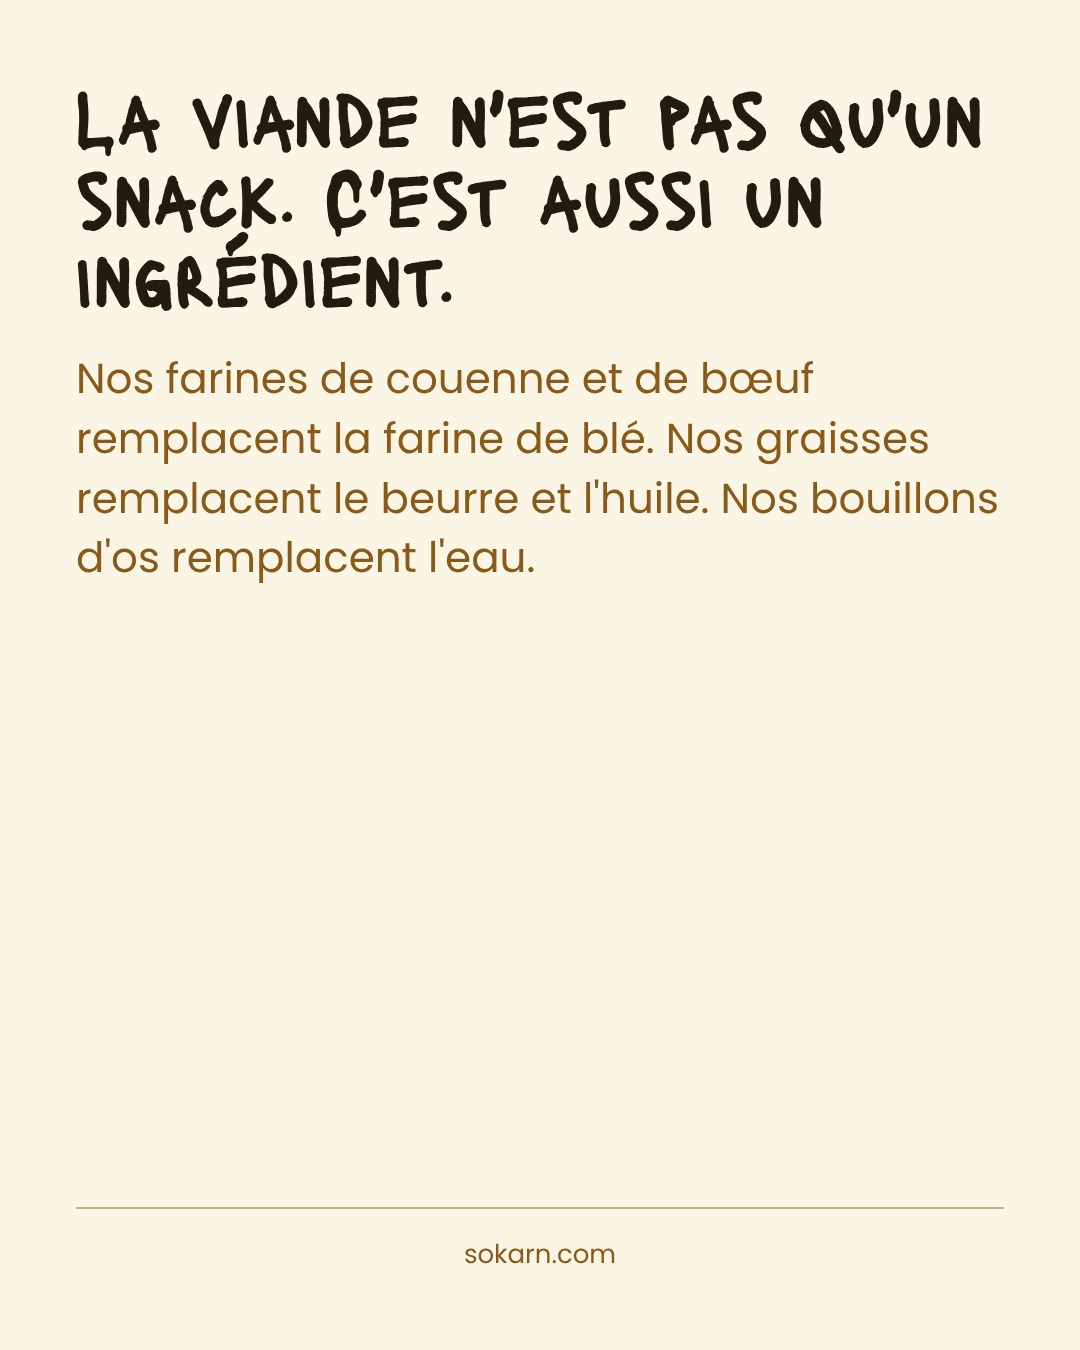
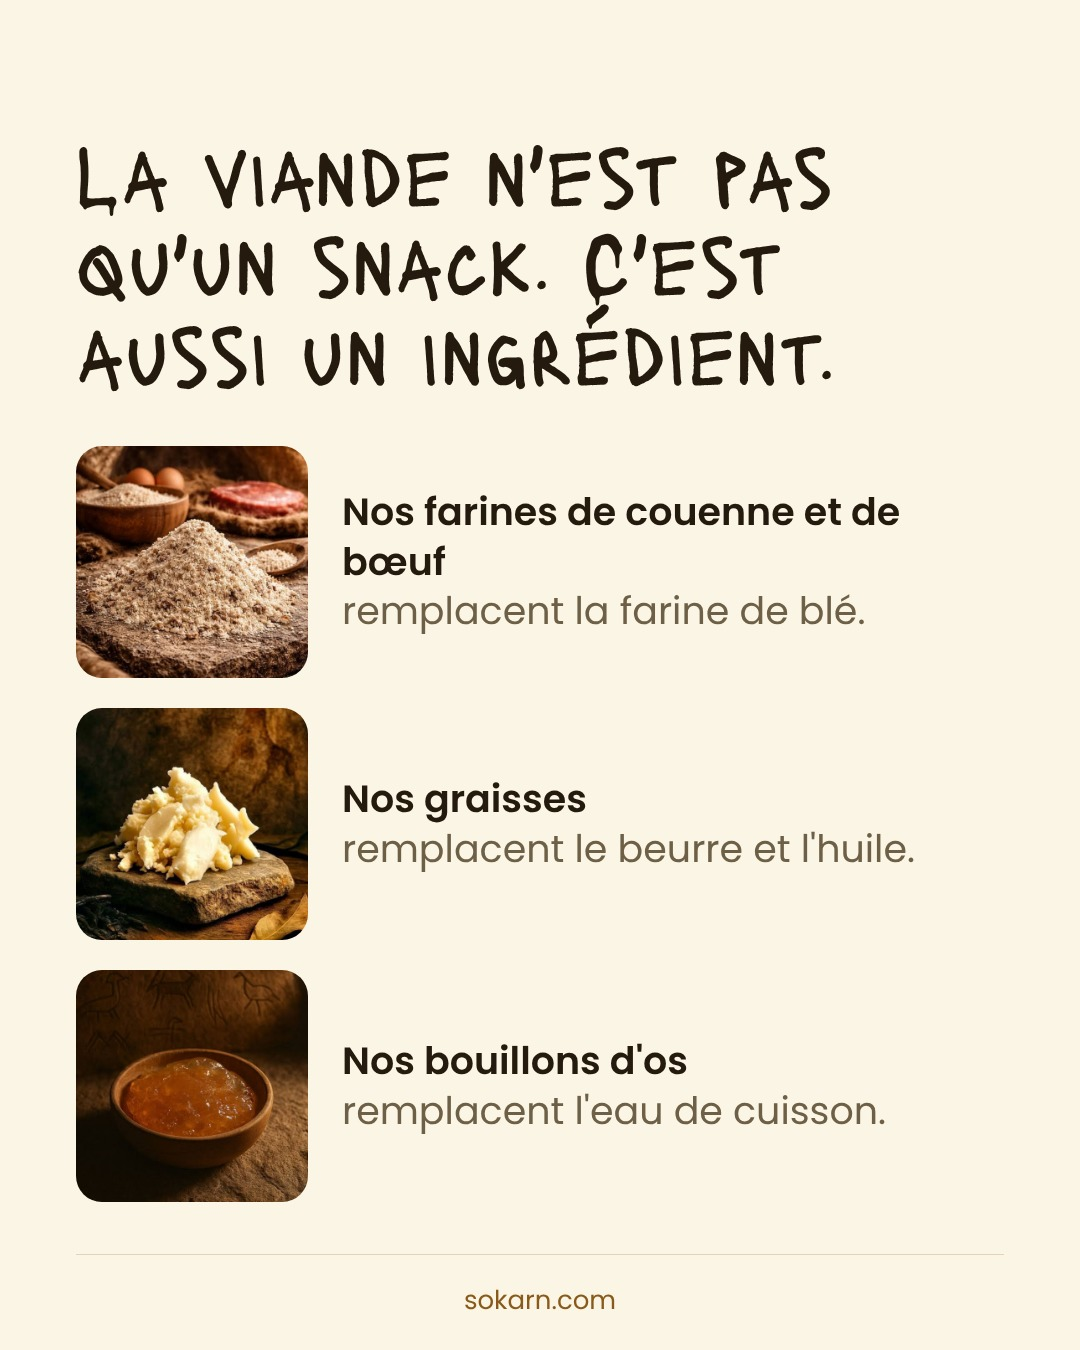
Sokarn : visuels et fiches des 17, 21 et 28 novembre
Claude-Session: https://claude.ai/code/session_01R2istR9Vw9AYu3H5iLhSBK

Changed region(s): [[0.0611, 0.0622, 0.9167, 0.9022], [0.4278, 0.9022, 0.5806, 0.9644]]

diff --git a/espace-client/sokarn-k7m2x9/index.html b/espace-client/sokarn-k7m2x9/index.html
@@ -478,7 +478,7 @@ const MEDIAS = {
   n7: ["nov-15-e1.jpg", "nov-15-e2.jpg", "nov-15-e3.jpg"],
   n8: ["nov-17-s1.jpg", "nov-17-s2.jpg", "nov-17-s3.jpg", "nov-17-s4.jpg", "nov-17-s5.jpg", "nov-17-s6.jpg"],
   n9: [],
-  n10: ["nov-21-avis.jpg"],
+  n10: ["nov-21-s1.jpg", "nov-21-s2.jpg", "nov-21-s3.jpg", "nov-21-s4.jpg", "nov-21-s5.jpg"],
   n11: ["nov-22-e1.jpg", "nov-22-e2.jpg", "nov-22-e3.jpg"],
   n12: ["nov-24-s1.jpg", "nov-24-s2.jpg"],
   n13: ["nov-25-e1.jpg", "nov-25-e2.jpg", "nov-25-e3.jpg"],
@@ -650,8 +650,8 @@ const POSTS_NOV = [
   "format": "Carrousel de 6 images",
   "pilier": "Le savoir-faire",
   "titre": "Trois produits qui posent question",
-  "demande": "Je fais les trois photos moi-même, fond sombre, lumière latérale dure, cadrage serré. Il me faut les produits avant le 6 novembre. Les Pieds Noirs sont remplacés par la Panse bête : ils sont en rupture et ne reviennent pas avant la campagne.",
-  "visuel": "J'ai monté la slide 1 sur fond nuit et non sur fond crème, pour l'alternance des couleurs dans le feed. Les slides 3, 4 et 5 attendent les photos, la zone est réservée.",
+  "demande": "Rien à fournir, les trois photos sont intégrées. Les Pieds Noirs sont remplacés par la Panse bête : ils sont en rupture et ne reviennent pas avant la campagne.",
+  "visuel": "J'ai monté la slide 1 sur fond nuit et non sur fond crème, pour l'alternance des couleurs dans le feed. Les slides 3, 4 et 5 présentent la Panse bête, le cœur de bœuf et le foie de bœuf, chacun avec sa photo.",
   "texte": "La panse, le cœur, le foie. Trois morceaux qui ont presque disparu des étals, parce qu'ils demandent du temps et qu'ils intriguent.\n\nNous, on les sèche. Pas par provocation : parce qu'une bête ne se résume pas à ses beaux morceaux, et qu'on ne voit pas au nom de quoi on jetterait le reste.\n\nOn sait qu'ils posent question. Alors on vous propose un marché : dites-nous en commentaire lequel des trois vous intrigue le plus, et on vous dit comment le manger la première fois.\n\nLes 3 sont sur sokarn.com",
   "tags": "#abats #panse #porcnoirdebigorre #jerky #viandesechee"
  },
@@ -672,11 +672,11 @@ const POSTS_NOV = [
   "id": "n10",
   "date": "Samedi 21 novembre, 18h30",
   "resa": "Instagram, Facebook",
-  "format": "Publication ou carrousel de 3",
+  "format": "Carrousel de 5 images",
   "pilier": "La communauté et la conversion",
   "titre": "Ce que vous en dites",
-  "demande": "Plan B si les avis ne sont pas assez nombreux au 21 : une publication simple sur la Panse bête seule, en rebond du carrousel du mardi. J'arbitre le mercredi 18 novembre.",
-  "visuel": "Carte citation au gabarit Sokarn, l'avis en Lacquer au centre avec les guillemets, le prénom et le nom du produit en dessous. Les avis produits sont repris mot pour mot, sans les corriger.",
+  "demande": "Rien à fournir.",
+  "visuel": "Ce sont finalement les avis Google qui sont partagés. Couverture avec la note de 4,9 sur 5 et les 16 avis, puis 4 avis, un par slide, signés du prénom et de l'initiale. J'ai écarté les avis qui parlent de santé et corrigé les coquilles.",
   "texte": "Les avis produits sont ouverts sur le site depuis quelques semaines, et on commence à vous lire.\n\nQuand on vend en ligne un produit que personne ne peut goûter avant d'acheter, ce que vous écrivez vaut tous les arguments et toutes les publicités :)\n\nMerci à celles et ceux qui ont pris le temps de laisser leur avis.",
   "tags": "#sokarn #avisclients #viandesechee #hautespyrenees #produitlocal"
  },
@@ -750,9 +750,9 @@ const POSTS_NOV = [
   "format": "Carrousel de 6 images",
   "pilier": "Le produit et ses usages",
   "titre": "On ne fait pas que de l'apéro",
-  "demande": "Rien à fournir, les photos viennent des articles recettes du site. Mais la tâche page d'accueil doit être faite avant, remplacer les Derniers séchages par 3 recettes, sinon le clic depuis ce carrousel atterrit sur la boutique et le lien est cassé dans la tête de la personne.",
-  "visuel": "Retour au fond crème, on sort volontairement de la charte nuit des Karni'Days pour que ce contenu ne soit pas lu comme une publicité de plus. Les slides 3, 4 et 5 attendent les photos des articles pancakes-carnivores, pate-a-pizza-ancestrale-sokarn et cheese-cake-des-cavernes.",
-  "texte": "On vous parle beaucoup d'apéro ou de snacks, mais Sokarn c'est bien plus que ça !\n\nIl y a 27 recettes sur le site, et elles reposent toutes sur la même idée : nos farines de couenne et de bœuf remplacent la farine de blé, nos graisses remplacent le beurre, nos bouillons d'os remplacent l'eau. Ça donne des pancakes, une pâte à pizza, des pains, des brioches, un cheesecake…\n\nLe Pain de Salomé est quant à lui devenu un incontournable, et la liste des recettes n'arrête plus de s'allonger.\n\nDécouvrez-les sur sokarn.com",
+  "demande": "Rien à fournir, les photos sont intégrées. Mais la tâche page d'accueil doit être faite avant, remplacer les Derniers séchages par 3 recettes, sinon le clic depuis ce carrousel atterrit sur la boutique et le lien est cassé dans la tête de la personne.",
+  "visuel": "Retour au fond crème, on sort volontairement de la charte nuit des Karni'Days pour que ce contenu ne soit pas lu comme une publicité de plus. La slide 2 montre les farines, les graisses et les bouillons, les slides 3, 4 et 5 montrent les pancakes, la pâte à pizza et le cheesecake.",
+  "texte": "On vous parle beaucoup d'apéro ou de snacks, mais Sokarn c'est bien plus que ça !\n\nLes recettes du site reposent toutes sur la même idée : nos farines de couenne et de bœuf remplacent la farine de blé, nos graisses remplacent le beurre, nos bouillons d'os remplacent l'eau de cuisson. Ça donne des pancakes, une pâte à pizza, des pains, des brioches, un cheesecake…\n\nLe Pain de Salomé est quant à lui devenu un incontournable, et la liste des recettes n'arrête plus de s'allonger.\n\nDécouvrez-les sur sokarn.com",
   "tags": "#recettes #sansgluten #hautespyrenees #produitlocal #cuisinemaison"
  },
  {
